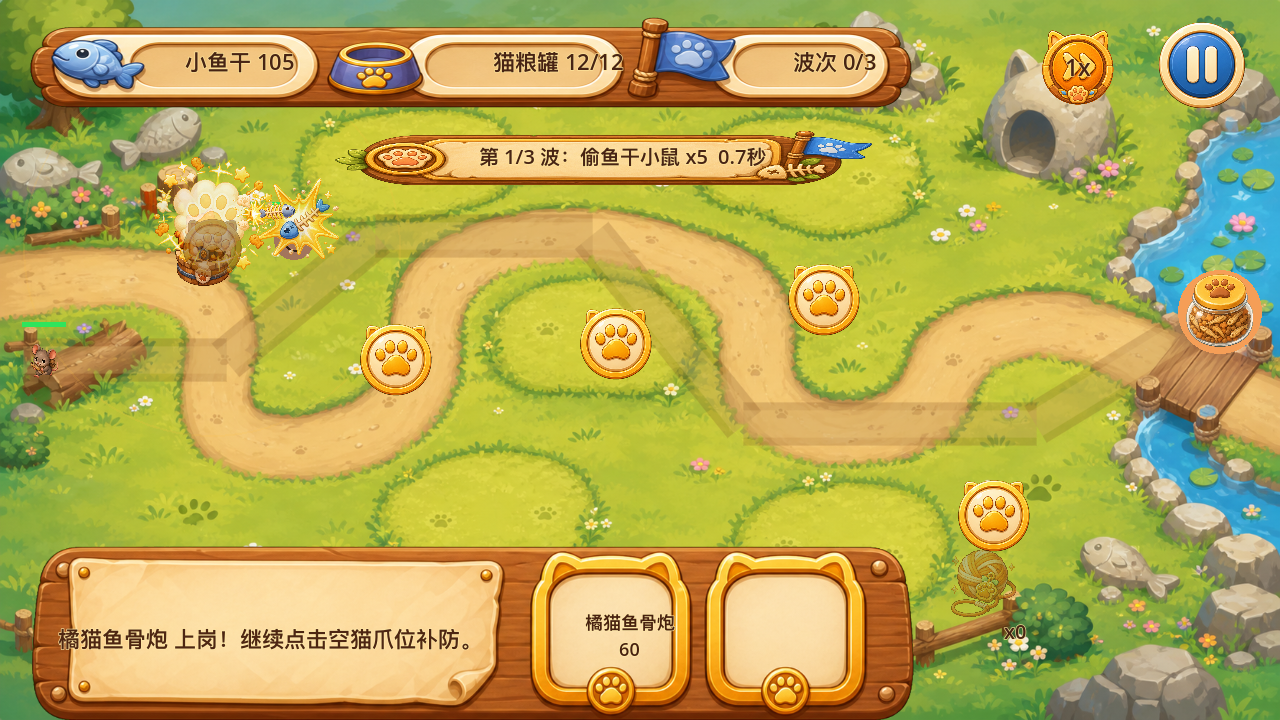
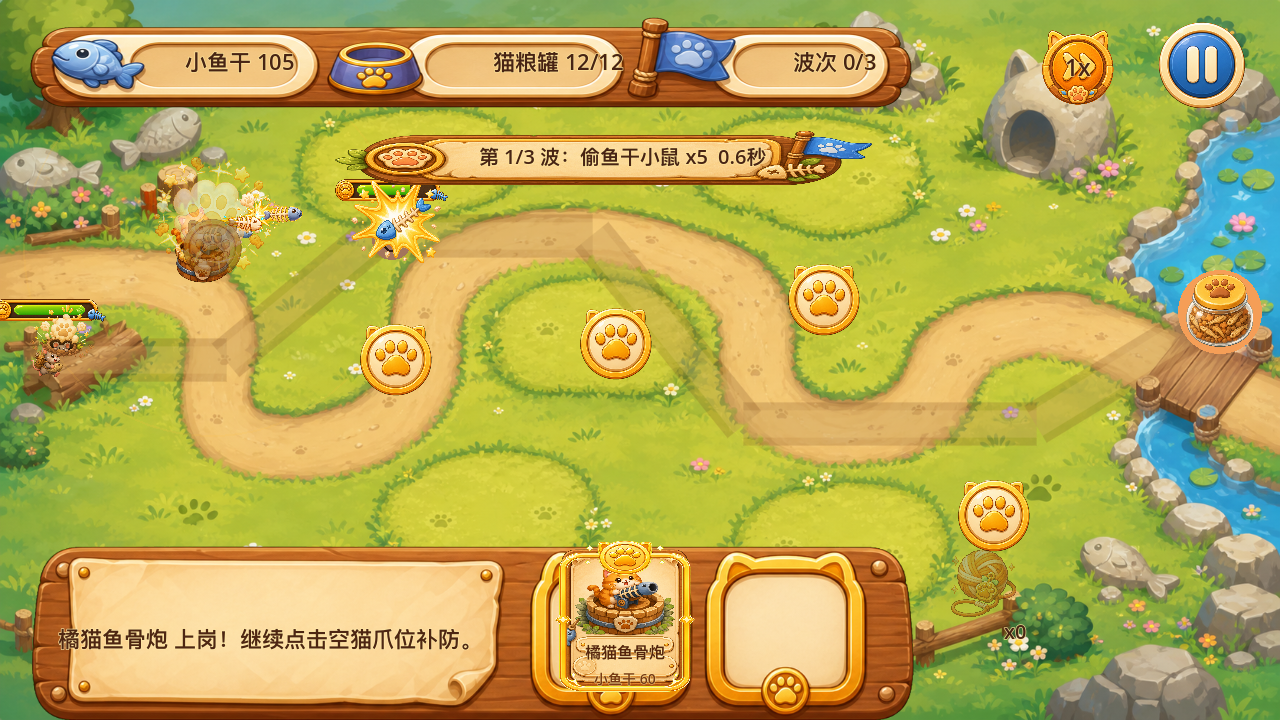
Add Image2 tower projectile

Changed region(s): [[0.125, 0.2139, 0.3438, 0.3972], [0.4375, 0.7333, 0.5625, 0.9778], [0.0, 0.3972, 0.0938, 0.5194]]

diff --git a/design-qa.md b/design-qa.md
@@ -502,3 +502,12 @@ final result: passed
 - Added `/Users/zhaok/cat/tests/run_enemy_health_bar_asset_tests.gd` to verify Image2 frame/fill paths, no `ColorRect` health bar, readable battle-scale dimensions, low-health danger state, and manifest entries.
 - Added `/Users/zhaok/cat/tests/capture_enemy_health_bar.gd` to regenerate `/Users/zhaok/cat/artifacts/enemy_health_bar.png`.
 - Verified `/Users/zhaok/cat/artifacts/enemy_health_bar.png` visually against the Image2 reference, then passed the targeted enemy health, hit feedback, enemy animation, build input, playthrough, menu, and scene smoke checks.
+
+**Image2 Tower Projectile**
+- Generated and archived `/Users/zhaok/cat/assets/generated/effects/tower_projectile_design_reference.png` as the full-screen Image2 battle reference for a cat fishbone shot traveling from tower to enemy.
+- Generated `/Users/zhaok/cat/assets/generated/effects/tower_fishbone_projectile_source.png`, then removed the chroma-key background and cropped the transparent runtime sprite into `/Users/zhaok/cat/assets/generated/effects/tower_fishbone_projectile.png`.
+- Tower fire now spawns `Image2ProjectileN` as a textured `Sprite2D` traveling from the tower muzzle toward the target, while the old `projectile.gd` code-drawn circle has been removed.
+- The projectile keeps damage application disabled in the current tower signal path, so existing tower balance stays intact while the shot becomes visible and animated.
+- Updated `/Users/zhaok/cat/tests/run_tower_fire_feedback_tests.gd` to verify real tower attack behavior, Image2 muzzle feedback, Image2 projectile texture, rotation toward target, manifest entries, and no `draw_circle` fallback.
+- Updated `/Users/zhaok/cat/tests/capture_tower_fire_feedback.gd` to regenerate `/Users/zhaok/cat/artifacts/tower_fire_feedback.png` with a clearer in-flight projectile frame.
+- Verified `/Users/zhaok/cat/artifacts/tower_fire_feedback.png` visually against the Image2 projectile reference and passed the targeted tower fire feedback check.